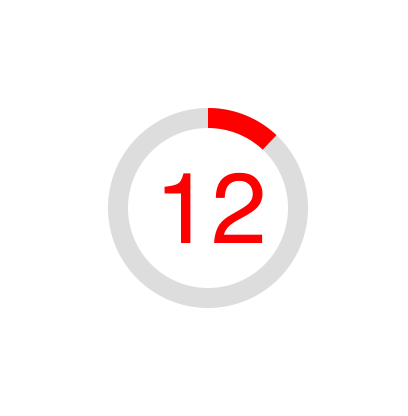
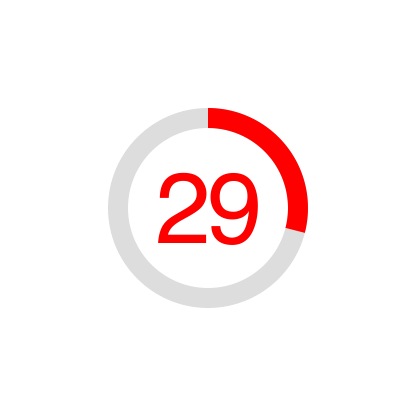
got rid of all file access stuff and using buffers

Changed region(s): [[0.3824, 0.4062, 0.6471, 0.5938], [0.6471, 0.3125, 0.7647, 0.5625]]

diff --git a/server.js b/server.js
@@ -26,33 +26,17 @@ app.use('/viz', function(req, res){
         },
         html: htmlStub,
         done: function(errors, window) {
-            var body = window.document.querySelector('body'),
-                el = window.document.querySelector('#main');
-
             file = chart.init(window, qStrings);
-            
             if (qStrings.mode === "raw") {
                 res.end(file);
             } else if (qStrings.mode === "rendered") {
-                fs.writeFile('raw/index.html', file, function(err) {
-                    if(err) {
-                        console.log('error saving document', err);
-                    } else {
-                        console.log('Raw file was saved');
-                    }
-                });
-
                 phantom.create(function (ph) {
                     ph.createPage(function (page) {
-                        page.open('http://localhost:1337/raw', function (status) {
-                            page.render('rendered/rendered.png', {format: 'png', quality: '100'}, function() {
-                                console.log('Rendered file was saved');
-                                ph.exit();
-                                fs.readFile('rendered/rendered.png', function(err, data) {
-                                    res.setHeader('Content-Type', 'image/png');
-                                    res.end(data);
-                                });
-                            });
+                        page.setContent(file);
+                        page.renderBase64("png", function(data) {
+                            res.setHeader("Content-Type", "image/png");
+                            res.end(new Buffer(data, 'base64'));
+                            ph.exit();
                         });
                     });
                 });

diff --git a/raw/index.html b/raw/index.html
@@ -1,1 +1,1 @@
-<html><head></head><body><div id="main"><svg width="400" height="400"><g transform="translate(200,200)"><path style="fill: #ddd;" d="M0,100A100,100 0 1,1 0,-100A100,100 0 1,1 0,100M0,80A80,80 0 1,0 0,-80A80,80 0 1,0 0,80Z"></path><path style="fill: red;" d="M6.123031769111886e-15,-100A100,100 0 0,1 68.45471059286886,-72.89686274214115L54.76376847429509,-58.31749019371293A80,80 0 0,0 4.898425415289509e-15,-80Z" id="foreground"></path><g transform="translate(-53,35)" class="label"><text id="text" font-family="sans-serif" font-size="100px" fill="red">12</text></g></g></svg></div></body></html>
+<html><head></head><body><div id="main"><svg width="400" height="400"><g transform="translate(200,200)"><path style="fill: #ddd;" d="M0,100A100,100 0 1,1 0,-100A100,100 0 1,1 0,100M0,80A80,80 0 1,0 0,-80A80,80 0 1,0 0,80Z"></path><path style="fill: green;" d="M6.123031769111886e-15,-100A100,100 0 1,1 -98.22872507286887,-18.738131458572433L-78.58298005829509,-14.990505166857947A80,80 0 1,0 4.898425415289509e-15,-80Z" id="foreground"></path><g transform="translate(0,35)" class="label"><text style="text-anchor: middle; letter-spacing: -2;" id="text" font-family="sans-serif" font-size="100px" fill="green">78</text></g></g></svg></div></body></html>

diff --git a/chart.js b/chart.js
@@ -51,12 +51,14 @@ var chart = {
 
         textLabel = chart
             .append("g")
-            .attr("transform", "translate(" + -53 + "," + 35 +")")
+            .attr("transform", "translate(" + 0 + "," + 35 +")")
             .attr("class", "label");
 
         textVal = textLabel
             .append("text")
             .text(options.score)
+            .style("text-anchor", "middle")
+            .style("letter-spacing", "-2")
             .attr("id", "text")
             .attr("font-family","sans-serif")
             .attr("font-size", "100px")

diff --git a/chart_script.js b/chart_script.js
@@ -9,12 +9,12 @@ setTimeout(function() {
     d3.select("#foreground")
         .datum({endAngle: 0})
         .transition()
-        .duration(750)
+        .duration(1000)
         .call(arcTween, (score/100) * tau);
 
     d3.select("#text")
         .transition()
-        .duration(750)
+        .duration(1000)
         .attr("fill", bgColor);
 }, 500);
 
